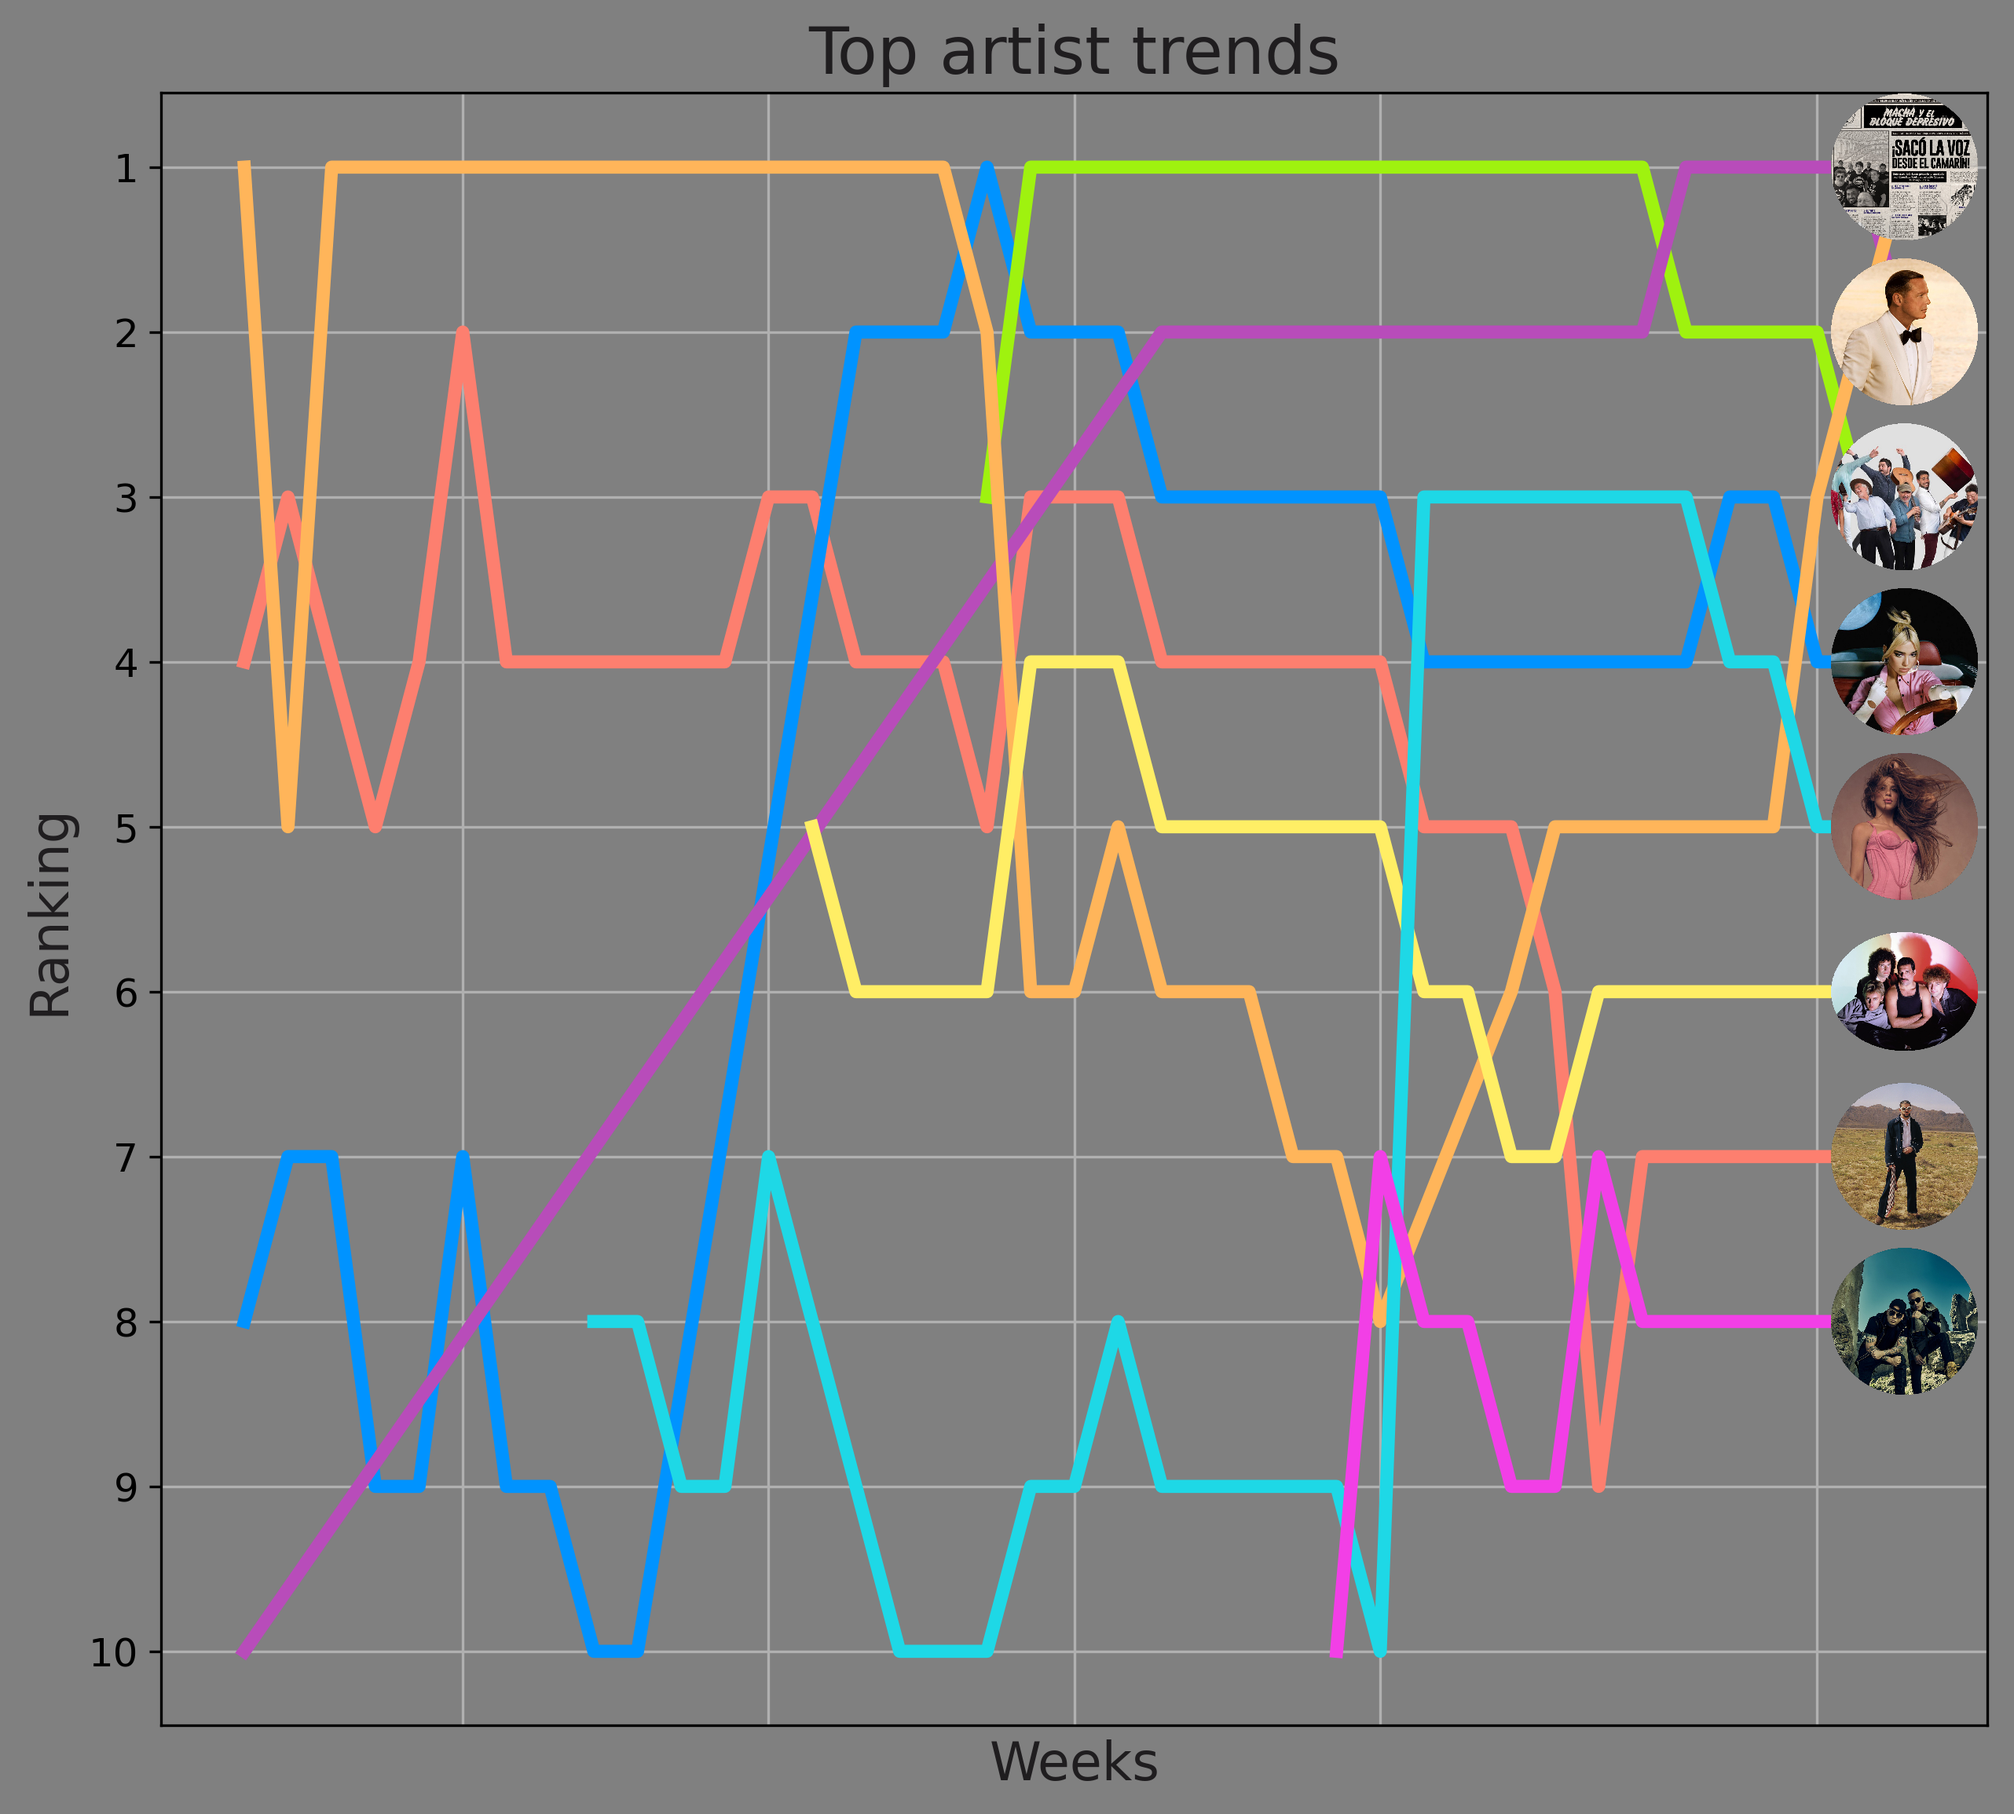
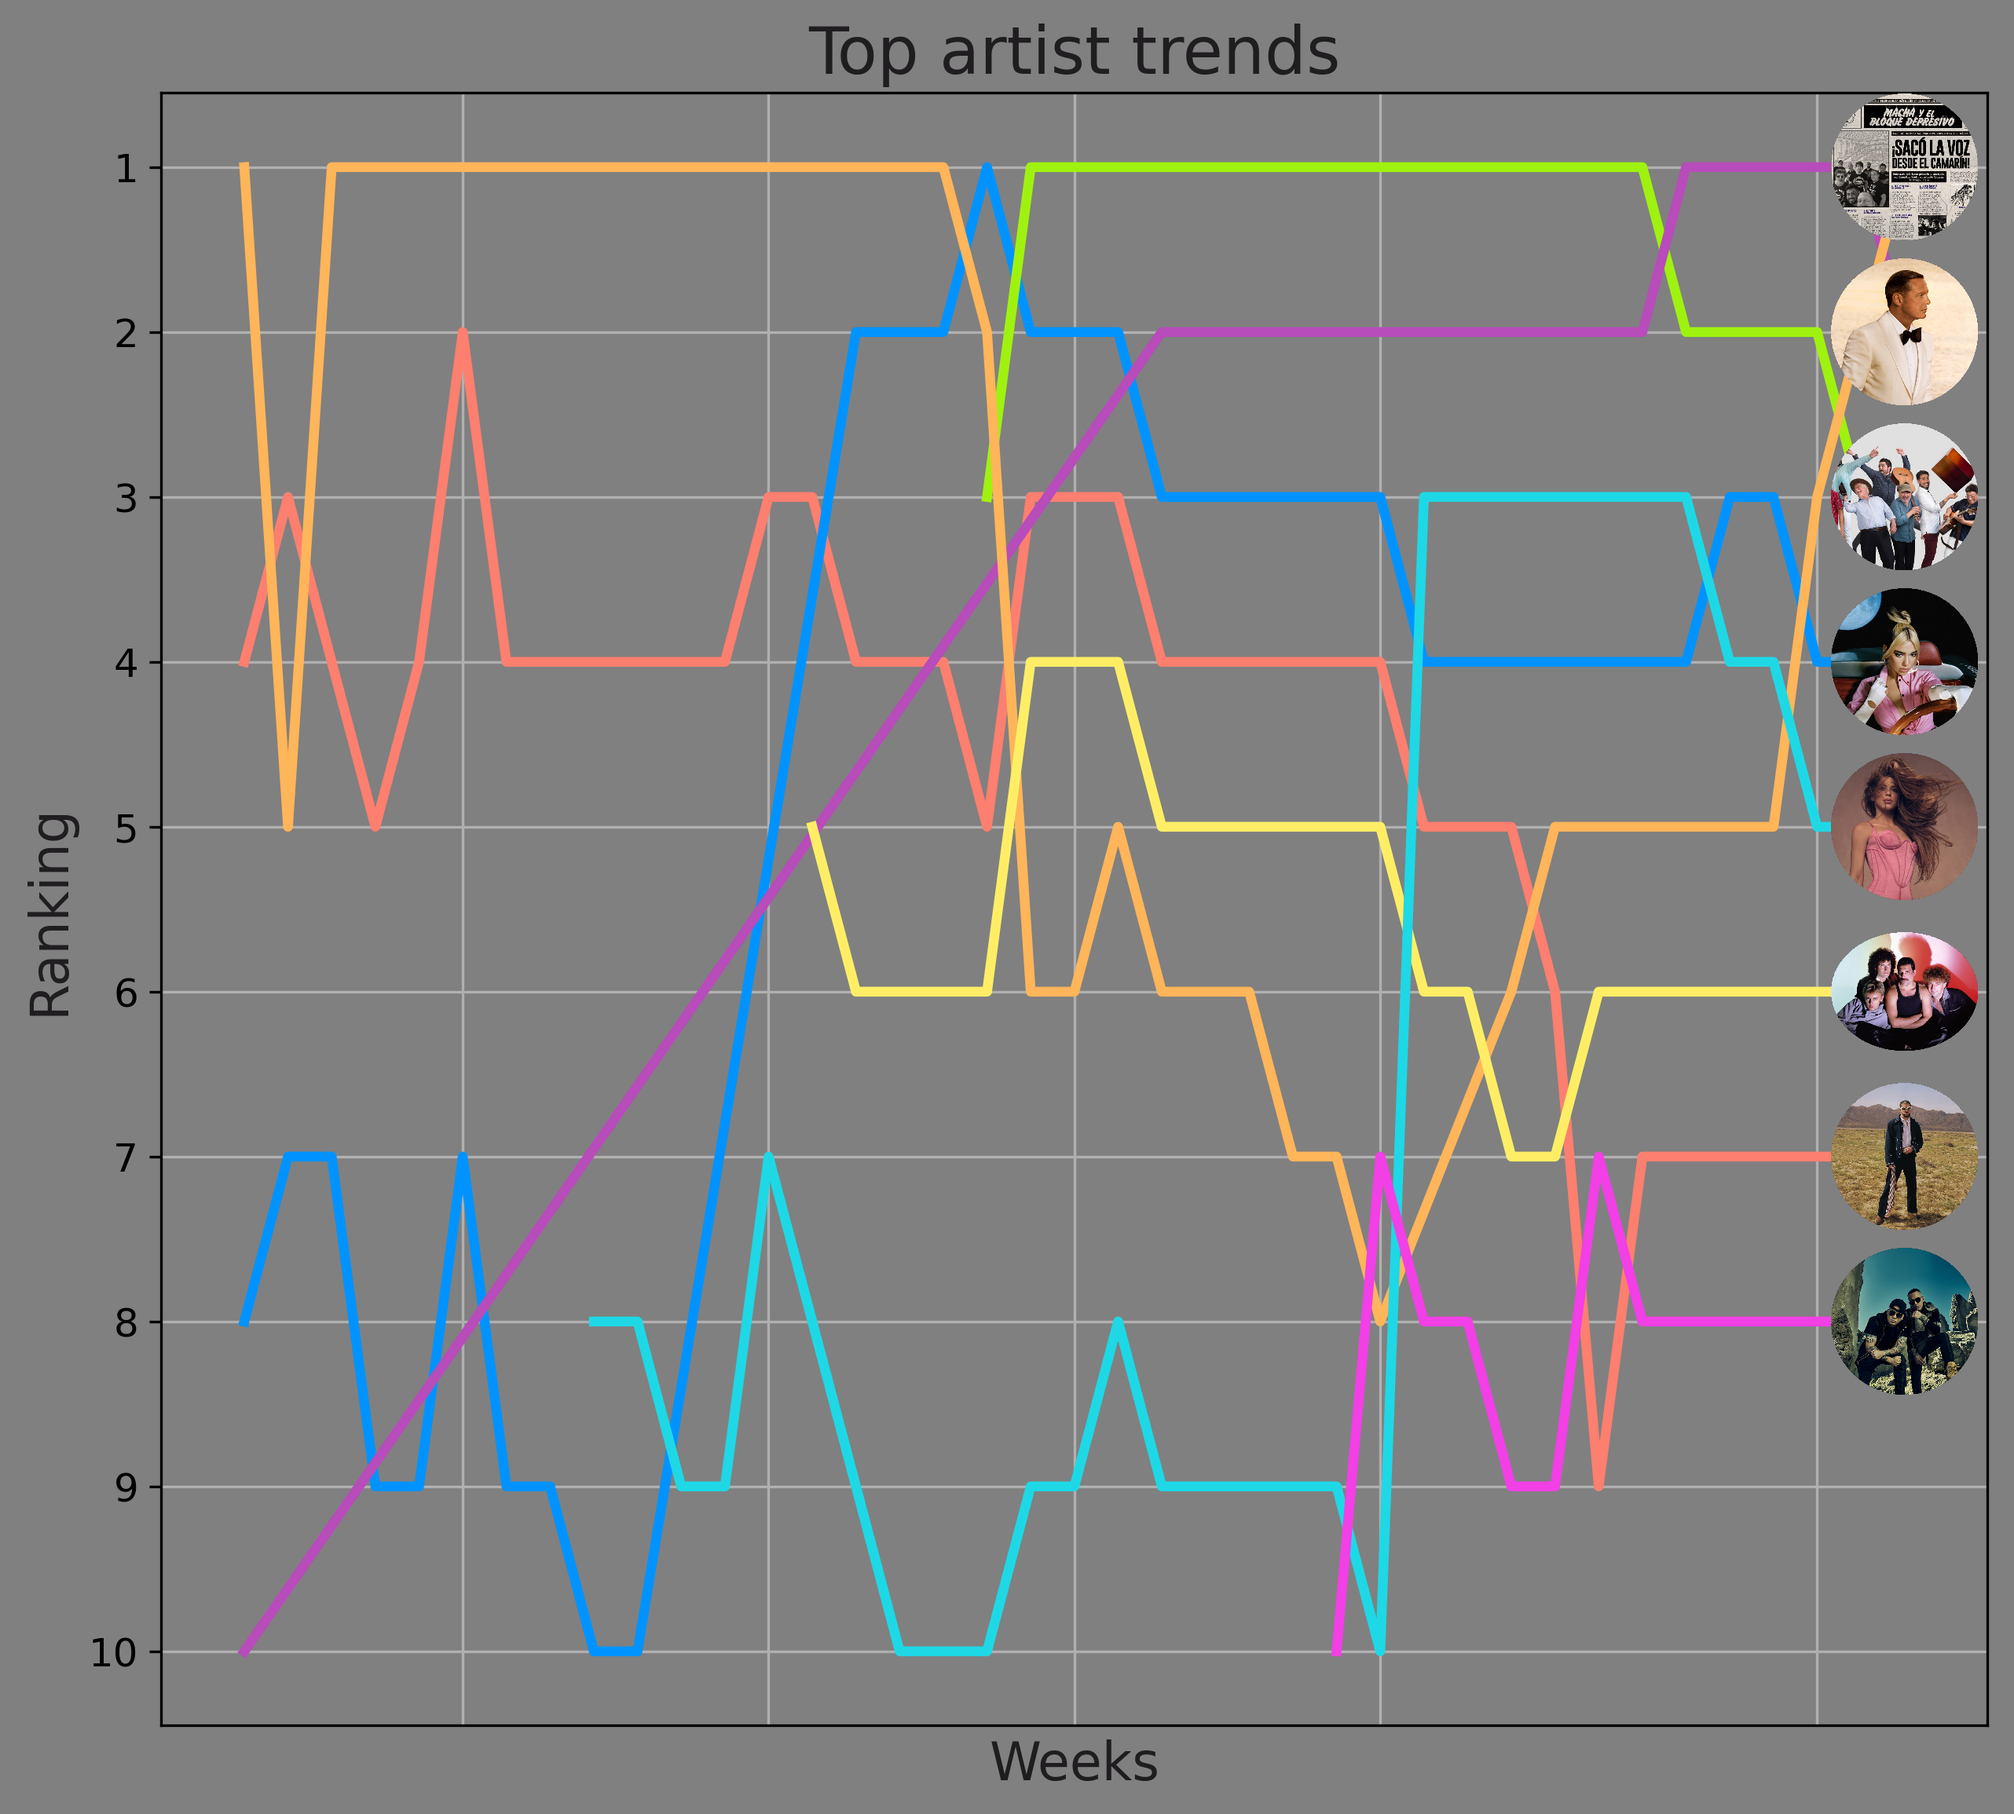
update: diagram

diff --git a/src/content_generator.py b/src/content_generator.py
@@ -91,7 +91,7 @@ class ContentGenerator:
                 color=colors[i % len(colors)],
                 linestyle=linestyles[i % len(linestyles)],
                 label=artist,
-                linewidth=4,
+                linewidth=3,
             )
 
         for index, row in recent_ranking.iterrows():
